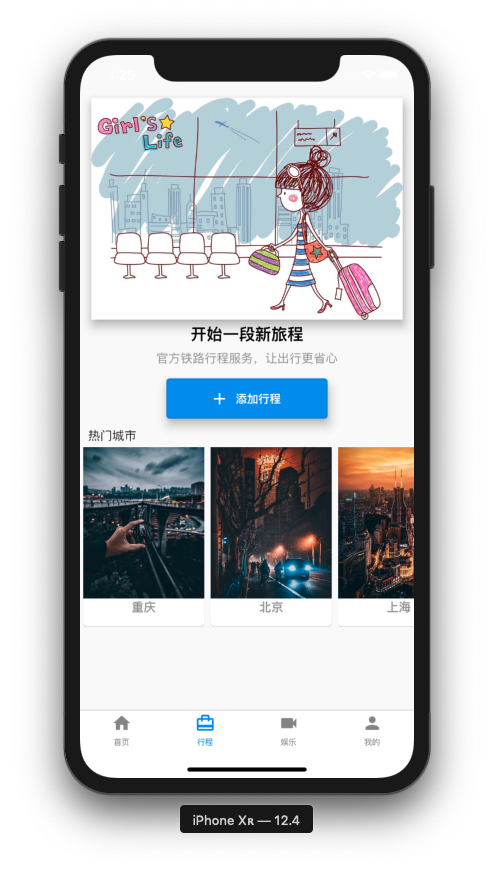
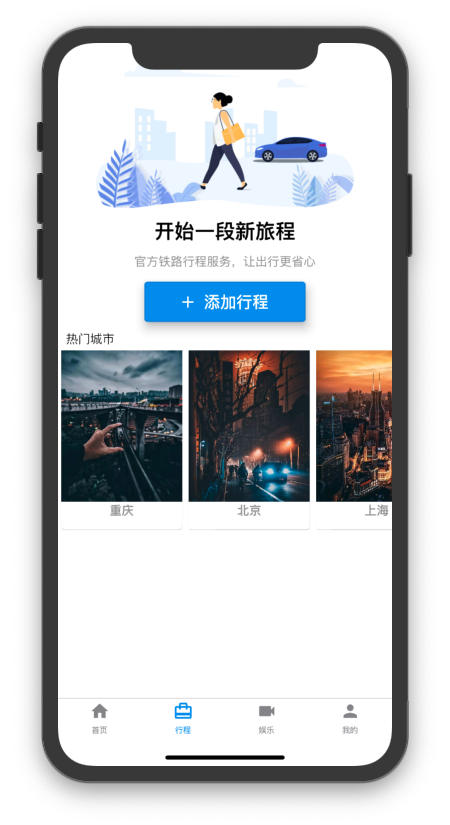
fix 代码

diff --git a/lib/trip/trip.dart b/lib/trip/trip.dart
@@ -38,18 +38,18 @@ class _TripPageState extends State<TripPage> {
       margin: EdgeInsets.only(top: 5, left: 10, right: 10),
       child: Column(
         children: <Widget>[
-          Card(
-            clipBehavior: Clip.hardEdge,
-            elevation: 10,
-            child: Image.asset("assets/image/trip.jpeg", fit: BoxFit.fill),
-          ),
+//          Card(
+//            clipBehavior: Clip.hardEdge,
+//            elevation: 10,
+//            child: Image.asset("assets/image/business.png", fit: BoxFit.fill),
+//          ),
           Text("开始一段新旅程",
               style: TextStyle(
                   color: Colors.black,
                   fontWeight: FontWeight.bold,
-                  fontSize: 20.0)),
+                  fontSize: 25.0)),
           SizedBox(
-            height: 5,
+            height: 10,
           ),
           Text("官方铁路行程服务，让出行更省心",
               style: TextStyle(
@@ -124,10 +124,6 @@ class _TripPageState extends State<TripPage> {
           _header(),
           _hotCityLab(),
           _hotCity(),
-//          _hotCityLab(),
-//          _hotCity(),
-//          _hotCityLab(),
-//          _hotCity(),
         ],
       ),
     );
@@ -136,10 +132,17 @@ class _TripPageState extends State<TripPage> {
   @override
   Widget build(BuildContext context) {
     return Scaffold(
-      body: new SafeArea(
-        child: _builderBody(),
-      ),
-    );
+        backgroundColor: Colors.white,
+        body: Container(
+          margin: EdgeInsets.only(top: 0),
+          child: Column(
+            children: <Widget>[
+              Image.asset("assets/image/business.png", fit: BoxFit.fill),
+              _builderBody(),
+            ],
+            // Image.asset("assets/image/business.png", fit: BoxFit.fill),
+          ),
+        ));
   }
 
 //  @override
